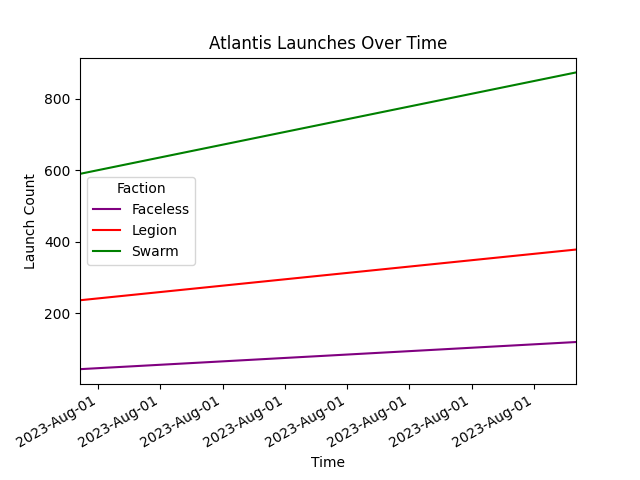
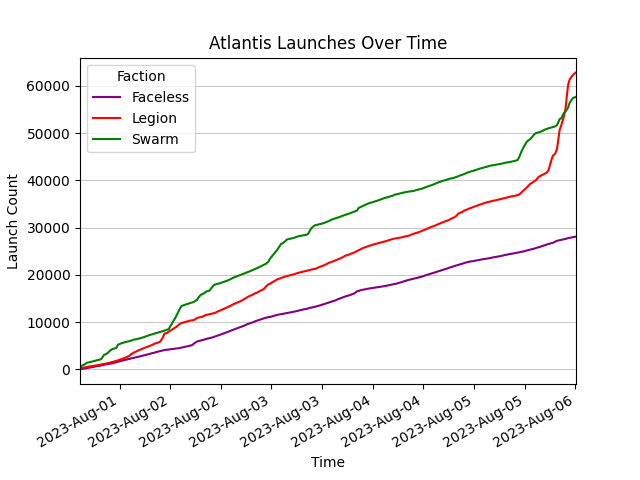
enhancing charts

diff --git a/python/discord/chart.py b/python/discord/chart.py
@@ -4,6 +4,7 @@ from sqlalchemy import create_engine
 import pandas as pd
 import matplotlib.pyplot as plt
 import matplotlib.dates as mdates
+import seaborn as sns
 import discord
 from discord.ext import commands
 from discord import Intents
@@ -26,7 +27,7 @@ def create_db_engine():
     """Create an engine that connects to the PostgreSQL server."""
     return create_engine(f'postgresql+psycopg2://{user}:{password}@{host}/{database}')
 
-def get_data_from_db():
+def get_faction_data_from_db():
     """Get the launches by faction and timestamp for the current month from the qonqr.atlantis_launches table."""
     query = f"""
     SELECT 
@@ -44,8 +45,8 @@ def get_data_from_db():
     with engine.begin() as conn:
         return pd.read_sql_query(query, conn)
 
-def process_data(data):
-    ## Process the data to prepare it for plotting.
+def process_faction_data(data):
+    ## Process the data to prepare it for plotting faction data.
     data['timestamp'] = pd.to_datetime(data['timestamp'])
 
     ## Group the data by faction and timestamp, then sum the launches within each group.
@@ -66,6 +67,9 @@ def plot_data(data):
     xmin, xmax = data.index.min(), data.index.max()
     chart.set_xlim(xmin, xmax)
 
+    ## Add grid lines to horizontal tick marks
+    chart.yaxis.grid(True, linestyle='-',linewidth=0.5)
+
     ## Format the x-axis ticks as dates
     chart.xaxis.set_major_formatter(mdates.DateFormatter('%Y-%b-%d'))
 
@@ -74,19 +78,58 @@ def plot_data(data):
     with open('export.png', 'wb') as f:
         image.savefig(f)
 
+def plot_proportional_data(data):
+    ## Create a stacked percentage chart with different colors for each faction
+    data = data.apply(lambda x: x/x.sum(), axis=1)
+    chart = data.plot(kind='area', stacked=True, color=['purple','red','green'])
+
+    ## Set the title, labels, and legend of the chart
+    chart.set_title('Proportional Atlantis Launches Over TIme')
+    chart.set_xlabel('Time')
+    chart.set_ylabel('Launch Proportion')
+    chart.legend(title='Faction')
+    xmin, xmax = data.index.min(), data.index.max()
+    chart.set_xlim(xmin, xmax)
+
+    ## Add horizontal lines at y=0.33 and y=0.67
+    chart.axhline(y=0.33, color='gray', linestyle='--', linewidth=1)
+    chart.axhline(y=0.67, color='gray', linestyle='--', linewidth=1)
+
+    ## Format x-axis ticks as dates
+    chart.xaxis.set_major_formatter(mdates.DateFormatter('%Y-%b-%d'))
+
+    ## Save the chart as an image file
+    image = chart.get_figure()
+    with open('proportional_export.png', 'wb') as f:
+        image.savefig(f)
 
 @bot.command(name='chart')
 async def chart(ctx):
     """Define a command that runs a Python script to plot the data from the database and send it to Discord."""
     ## Get the data from the database
-    data = get_data_from_db()
+    data = get_faction_data_from_db()
     ## Process the data for plotting
-    processed_data = process_data(data)
+    processed_data = process_faction_data(data)
     ## Plot the data and save it as an image file
     plot_data(processed_data)
     ## Send the image file to Discord
     with open('export.png', 'rb') as f:
         await ctx.send(file=discord.File(f, 'export.png'))
+    ## Clear command
+    await ctx.message.delete()
+
+@bot.command(name='chart%')
+async def proportional_chart(ctx):
+    """Define a command that runs a Python script to plot the proportional data from the database and send it to Discord."""
+    ## Get the data from the database
+    data = get_faction_data_from_db()
+    ## Process the data for plotting
+    processed_data = process_faction_data(data)
+    ## Plot the data and save it as an image file
+    plot_proportional_data(processed_data)
+    ## Send the image file to Discord
+    with open('proportional_export.png', 'rb') as f:
+        await ctx.send(file=discord.File(f, 'proportional_export.png'))
     ## Clear command
     await ctx.message.delete()
 
